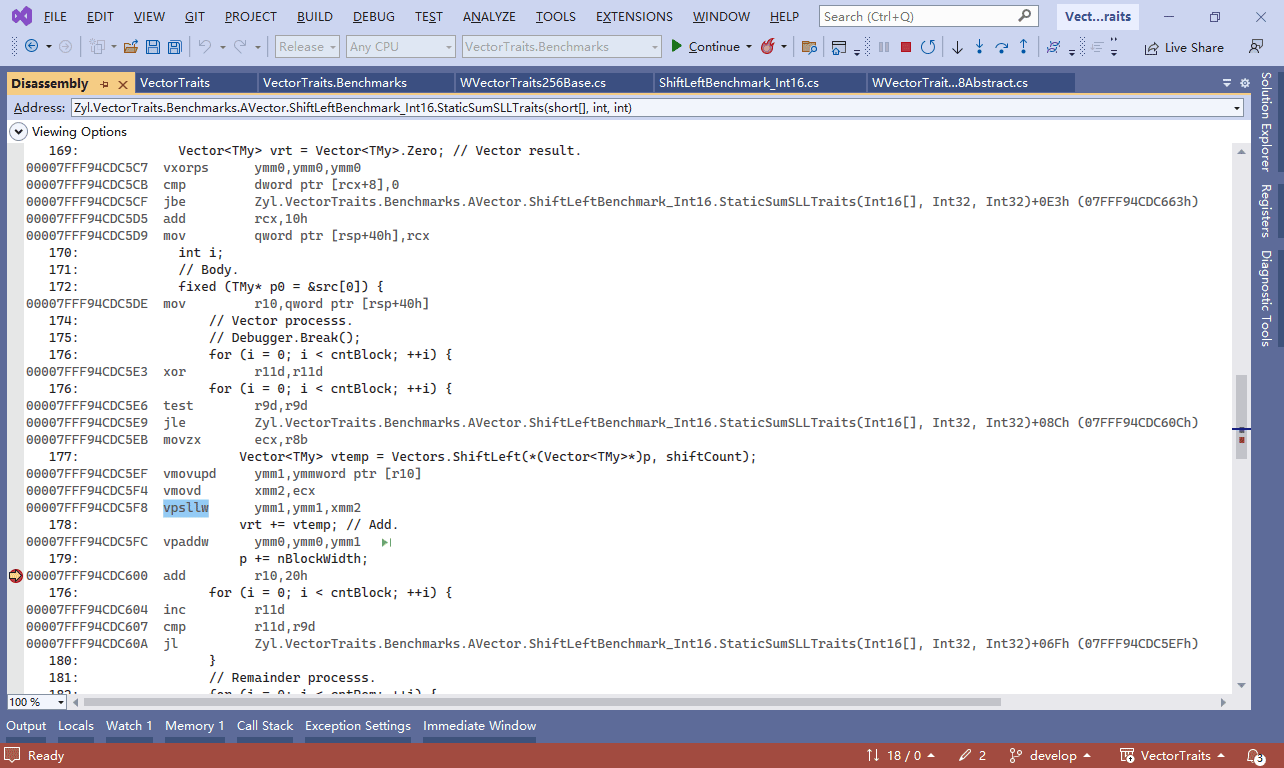
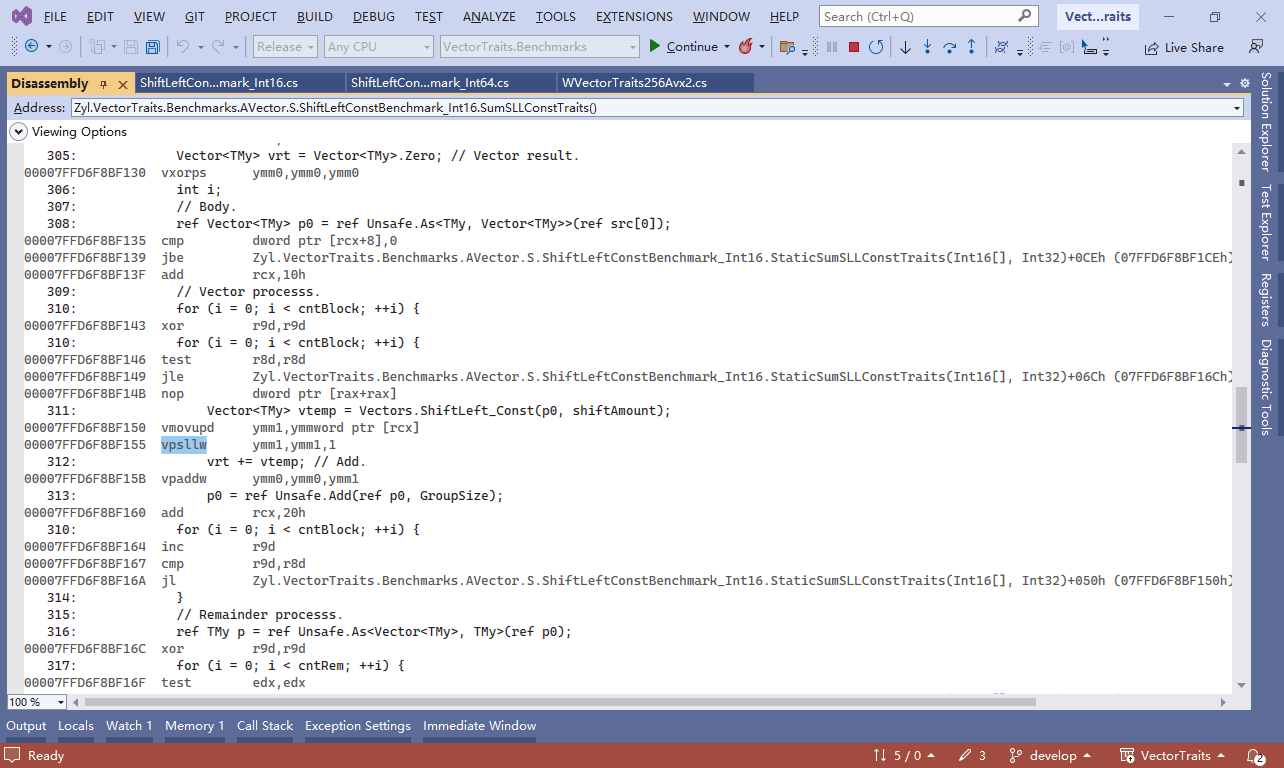
Update `Vectors.ShiftLeft_use_inline.png`

diff --git a/README.md b/README.md
@@ -56,7 +56,7 @@ Feature:
 - Easy to use. This library supports not only `Vector<T>`, but also `Vector128<T>`/`Vector256<T>` and other vector types. The class name of the tool class is easy to remember (Vectors/Vector64s/Vector128s/Vector256s) and provides many common vector constants through a generic class of the same name.
 - For each traits method, some properties are added to obtain information. e.g. `_AcceleratedTypes`, `_FullAcceleratedTypes` .
 
-Tip: The Disassembly window in Visual Studio allows you to view the assembly code at runtime.  For example, when running on a machine that supports the Avx instruction set, `Vectors.ShiftLeft` will be compiled inline and optimized to use the `vpsllw` instruction.
+Tip: The Disassembly window in Visual Studio allows you to view the assembly code at runtime.  For example, when running on a machine that supports the Avx instruction set, `Vectors.ShiftLeft` will be compiled inline and optimized to use the `vpsllw` instruction. And for constant value(1), it will be compiled as the immediate number of the instruction.
 ![Vectors.ShiftLeft_use_inline.png](docs/Vectors.ShiftLeft_use_inline.png)
 
 

diff --git a/README_Chinese.md b/README_Chinese.md
@@ -56,7 +56,7 @@ VectorTraits: SIMD Vector type traits methods (SIMD向量类型的特征方法).
 - 使用方便。本库不仅支持 `Vector<T>`，还支持 `Vector128<T>`/`Vector256<T>` 等向量类型。工具类的类名很好记（Vectors/Vector64s/Vector128s/Vector256s），且通过同名的泛型类提供了许多常用的向量常数。
 - 为每一个特征方法, 增加了一些获取信息的的属性. e.g. `_AcceleratedTypes`, `_FullAcceleratedTypes` .
 
-提示: 在 Visual Studio 的 Disassembly窗口可以查看运行时的汇编代码. 例如在支持 Avx指令集的机器上运行时, `Vectors.ShiftLeft` 会被内联编译优化为使用 `vpsllw` 指令.
+提示: 在 Visual Studio 的 Disassembly窗口可以查看运行时的汇编代码. 例如在支持 Avx指令集的机器上运行时, `Vectors.ShiftLeft` 会被内联编译优化为使用 `vpsllw` 指令. 且对于常量值(1), 会被编译为指令的立即数.
 ![Vectors.ShiftLeft_use_inline.png](docs/Vectors.ShiftLeft_use_inline.png)
 
 
